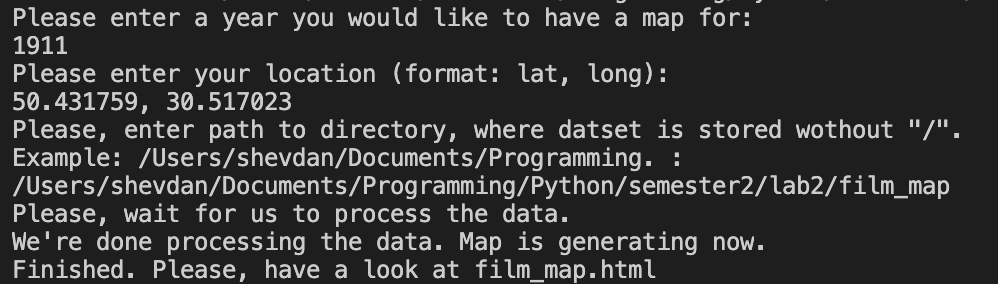
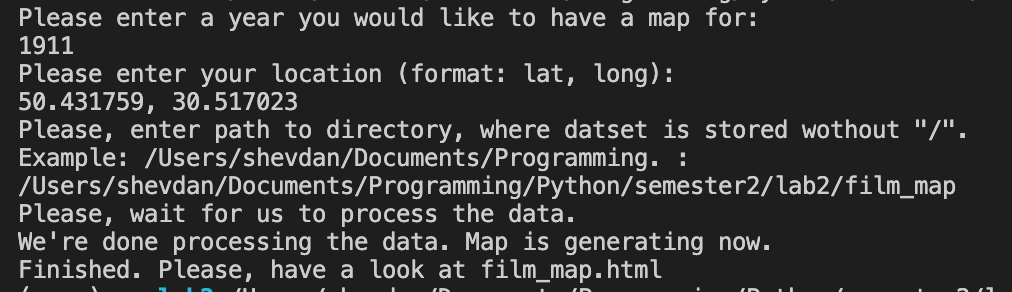
Finished Readme

diff --git a/setup.py b/setup.py
@@ -1,0 +1,22 @@
+import setuptools
+
+with open("README.md", "r", encoding="utf-8") as fh:
+    long_description = fh.read()
+
+setuptools.setup(
+    name="film_map",
+    version="0.0.1",
+    author="Bohdan Shevchuk",
+    author_email="shevdan007@gmail.com",
+    description="A package to create html page containing map",
+    long_description=long_description,
+    long_description_content_type="text/markdown",
+    url="https://github.com/shevdan/film_map",
+    packages=setuptools.find_packages(),
+    classifiers=[
+        "Programming Language :: Python :: 3",
+        "License :: OSI Approved :: MIT License",
+        "Operating System :: OS Independent",
+    ],
+    python_requires='>=3.8',
+)

diff --git a/main.py b/main.py
@@ -18,7 +18,7 @@ def user_interaction() -> tuple:
     '''
     year = int(input("Please enter a year you would like to have a map for:\n"))
     location = input("Please enter your location (format: lat, long):\n")
-    path = input('Please, enter path to directory, where datset is stored wothout "/".\n\
+    path = input('Please, enter path to directory, where dataset is stored wothout "/".\n\
 Example: /Users/shevdan/Documents/Programming. :\n')
     location = location.rstrip().split(',')
     location = tuple(map(float, location))

diff --git a/README.md b/README.md
@@ -7,8 +7,13 @@ With this module, you can find places nearby, where films were filmed in specifi
 !Disclaimer! Requests for getting coordinates take a lot of time so
 program might work for a long time. It works rather fast with distant years like 1911.
 
-[Running main.py in terminal with function main_func()](example_screenshots/Terminal_exmpl.png)
 
-[After running the program we get generated the html page "film_map.html"](example_screenshots/map_example.png)
+![Running main.py in terminal with function main_func()](example_screenshots/Terminal_exmpl.png)
+
+
+![After running the program we get generated the html page "film_map.html"](example_screenshots/map_example.png)
 
 # HTML page description
+Generated HTML page has header where style of the page is described,
+and body containing python map visualization via folium and description
+of popups, marks, markers and feature groups present in map.
